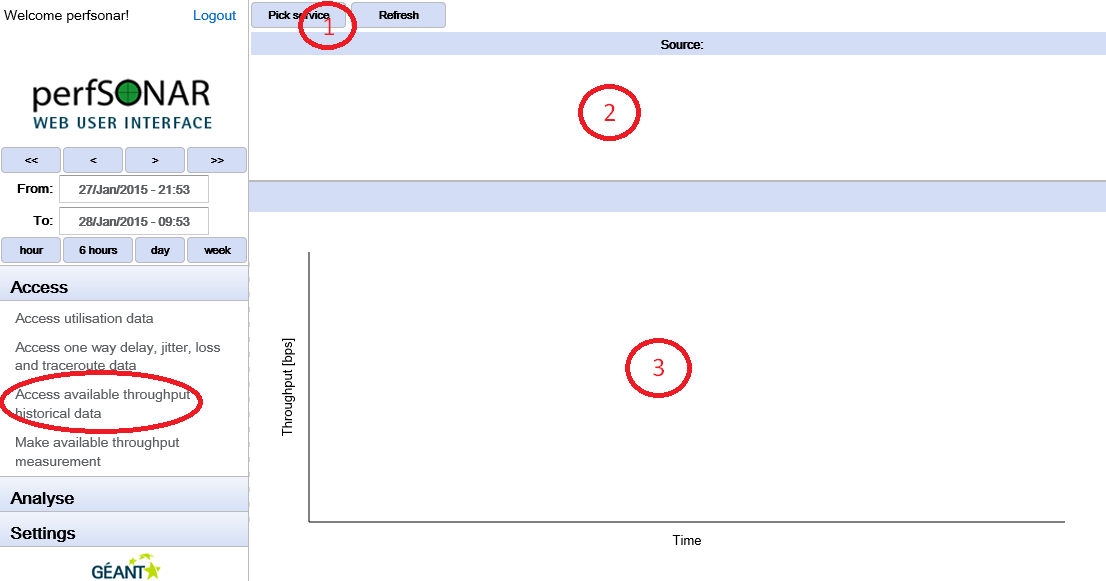
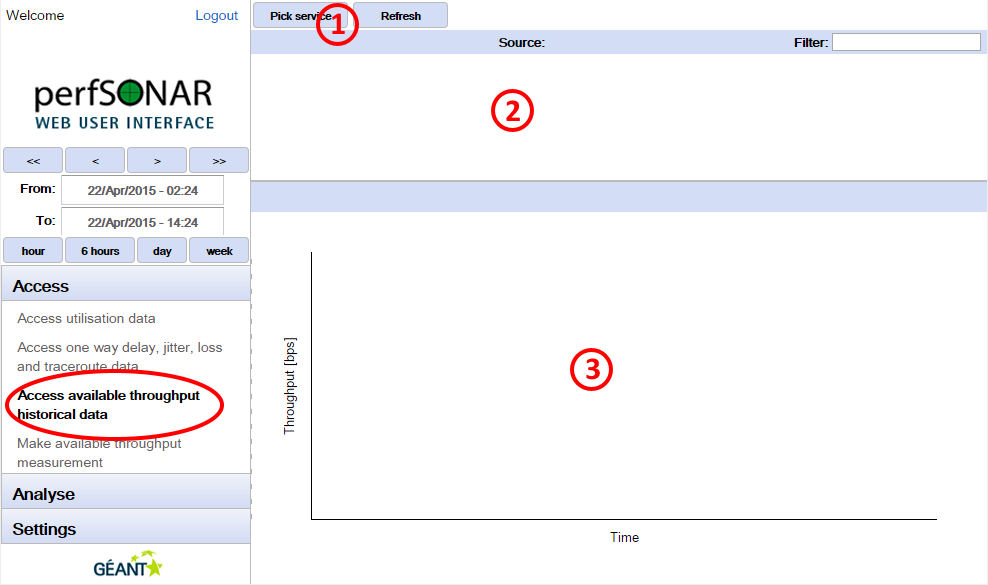
refactored BWCTL historical measurements

diff --git a/using_psui.rst b/using_psui.rst
@@ -137,7 +137,7 @@ Accessing Link Utilization Data
 
 Accessing One-way Delay, Jitter, One-way Packet Loss And Traceroute Data
 ~~~~~~~~~~~~~~~~~~~~~~~~~~~~~~~~~~~~~~~~~~~~~~~~~~~~~~~~~~~~~~~~~~~~~~~~
-The data generated by running OWAMP tests are stored within esmond or perfSONAR HADES MA service. PerfsonaUI displays OWAMP archived tests in **Access one way delay, jitter, loss and traceroute data** plugin accessed from eponymous menu item in the left navigation panel. Initially the page loads with no data. There are three main sections:
+The data generated by running OWAMP tests are stored within esmond or perfSONAR HADES MA service. PerfsonaUI displays OWAMP archived tests in **Access one way delay, jitter, loss and traceroute data** plugin accessed from its menu item in the left navigation panel. Initially the page loads with no data. There are three main sections:
 
   .. image:: images/using_psui-09historical_delay_initial.png
 
@@ -145,17 +145,18 @@ The data generated by running OWAMP tests are stored within esmond or perfSONAR 
   2. Measurement selection panel;
   3. The result panel with graphs in the bottom part of the plugin.
 
-In order to retreive OWAMP archived data:
+In order to retreive archived OWAMP data:
   
-1. Click on the **Pick service** button to opens Service pickup dialog. Select the desired service point.
+1. Click the **Pick service** button and select the measurement archive to query by choosing from the list.
+  .. note:: Use filters to quickly find desired archive
 
   .. seealso:: See section `Selecting Service`_ for information on the Service pickup dialog.
 
-2. The measurements provided by the OWAMP or HADES MA are measurements of parameters between two endpoints. Once the desired archive is selected, a request is sent to it to get all the available measurements from it. When the archive service responds with the available measurements, they are presented to the users in the measurement selection panel.
+2. OWAMP measurement tests are run between pairs of OWAMP mesurement points. Once the desired archive is selected, a request is sent to it to get all the available measurements from it. Available measurement pairs are presented in the measurement selection panel.
 
   .. image:: images/using_psui-10historical_delay_selection.png
 
-3. Choose the required source point in the **From:** section (representing the endpoint where the measurements originated from). Once a source point is selected, all the available destination endpoints become visible on the right side in the **To:** section of the panel. It is possible to quickly *filer* out the list of available destination points by typing into **Filter** input field.
+3. Choose the desired source point in the **From:** section (representing the endpoint where the measurements originated from). Once a source point is selected, all the available destination endpoints become visible on the right side in the **To:** section of the panel. It is possible to quickly *filer* out the list of available destination points by typing into **Filter** input field.
 
 4. When a destination point is selected, the measurement archive is queried for that particular measurement. The results from such a query are presented on a graph in the bottom part of the plugin panel. 
 
@@ -185,31 +186,42 @@ In order to retreive OWAMP archived data:
 
 Accessing Achievable Throughput data
 ~~~~~~~~~~~~~~~~~~~~~~~~~~~~~~~~~~~~
-The **Access available throughput historical data** plugin enables the user to visualize historical measurements performed by perfSONAR BWCTL MP and stored within a perfSONAR SQL MA. To do this, the user must do the following:
-
-1. Click the **Access available throughput historical data** in the left navigation panel. Initially the page loads with no data. There is a service selection control located on top of the plugin panel (1). Once the desired MA service is selected, a request is sent to it to get all the available measurements from it. When the service responds with the available measurements, they are presented to the users in the measurement selection panel (2). When a source and destination points are selected, the measurement archive is queried for that particular measurement. The results from such a query are presented on a graph in the bottom part of the plugin panel (3).
+The **Access available throughput historical data** plugin enables the user to visualize historical measurement tests performed between BWCTL nodes and stored within esmond or a perfSONAR SQL MA. Initially the page loads with no data.
 
   .. image:: images/using_psui-15historical_bw_initial.png
 
-2. Click the **Pick service** button and select the measurement archive to query by choosing from the list.
+  1. There is a service selection control located on top of the plugin panel;
+  2. Measurement selection panel;
+  3. The result panel with graphs in the bottom part of the plugin.
+
+To do this, the user must do the following:
+
+ When a source and destination points are selected, the measurement archive is queried for that particular measurement. The results from such a query are presented on a graph in the bottom part of the plugin panel (3).
+
+In order to retreive archived BWCTL data:
+
+1. Click the **Pick service** button and select the measurement archive to query by choosing from the list.
+  .. note:: Use filters to quickly find desired archive
   
   .. seealso:: See section `Selecting Service`_ for information on the Service pickup dialog.
 
-3. The measurements provided by the SQL MA are measurements of parameters between two endpoints. When the service responds with the available measurements, then choose the required source point in the **Source:** section (theis represents the endpoints where the measurements are originated from). Once a source point is selected, all the available destination endpoints become visible on the right side in the **Destination:** section of the panel. Click on the required destination endpoint.
+2. BWCTL measurement tests are run between pairs of BWCTL mesurement points. Once the desired archive is selected, a request is sent to it to get all the available measurements from it. Available measurement pairs are presented in the measurement selection panel.
 
   .. image:: images/using_psui-16historical_bw_selection.png
+
+3. Choose the desired source point in the **Source:** section (representing the endpoint where the measurements originated from). Once a source point is selected, all the available destination endpoints become visible on the right side in the **Destination:** section of the panel. It is possible to quickly *filer* out the list of available destination points by typing into **Filter** input field.
 
 4. When a destination point is selected, the measurement archive is queried for that particular measurement. The results from such a query are presented on a graph in the bottom part of the plugin panel.
   
   .. image:: images/using_psui-17historical_bw_results.png
 
-The requested measurements are shown on a graph in the lower part of the screen. These measurements represent a series of individual available throughput measurements with identical parameters, which were performed on a regular basis in the past. Each of these measurements consists of more than one value. One distinct value is the average achieved throughput shown as a blue dot. There are also several values which represent throughput achieved during reporting intervals (green dots). For example, if a single measurement lasted 30 seconds and had a reporting interval of 6 seconds this means that there will be 5 reporting interval values (one every 6 seconds of the measurement) and one average value. Each of the individual measurements can be viewed in more detail. 
+The graph represents a series of individual available throughput tests with identical parameters, which were performed in the past. Each of these tests consists of more than one value represented by a dot. One distinct value is the average achieved throughput shown as a blue dot. There are also several values which represent throughput achieved during reporting intervals (green dots). For example, if a single test lasted 30 seconds and had a reporting interval of 6 seconds this means that there will be 5 reporting interval values (one every 6 seconds of the test) and one average value. Each of the individual tests can be clicked and viewed in more detail. 
   
-In order to view details of a single measurement click on a dot belonging to that measurement. The detailed result will be displayed in a separate panel:
+To view details of a single test click on a dot belonging to that test. The detailed result will be displayed in a separate panel:
  
   .. image:: images/using_psui-18historical_bw_details.png
 
-That single measurement is now presented differently, which allows the user to see how it progressed over time. Along with the graph there is also a numerical representation of the measurement data. A table below the graph specifies the transferred volume of data and the achieved throughput for each reporting interval.
+That single measurement is now presented differently (1), which allows the user to see how it progressed over time. Along with the graph there is also a numerical representation of the measurement data. A table below the graph specifies the transferred volume of data and the achieved throughput for each reporting interval (2). Clicking on **<<** button in left corner (3) takes user back to previous screen.
 
 Making an On-demand Measurement
 -------------------------------
